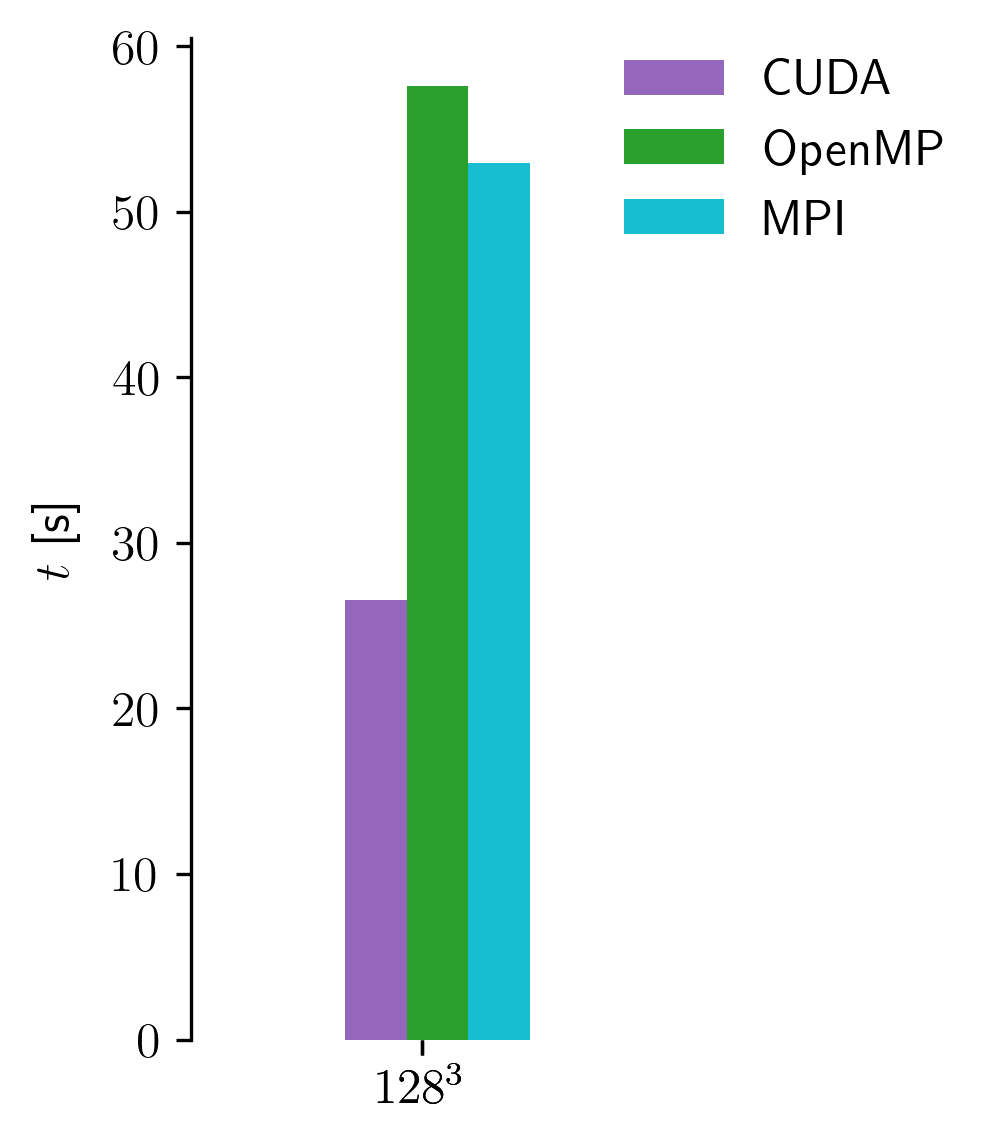
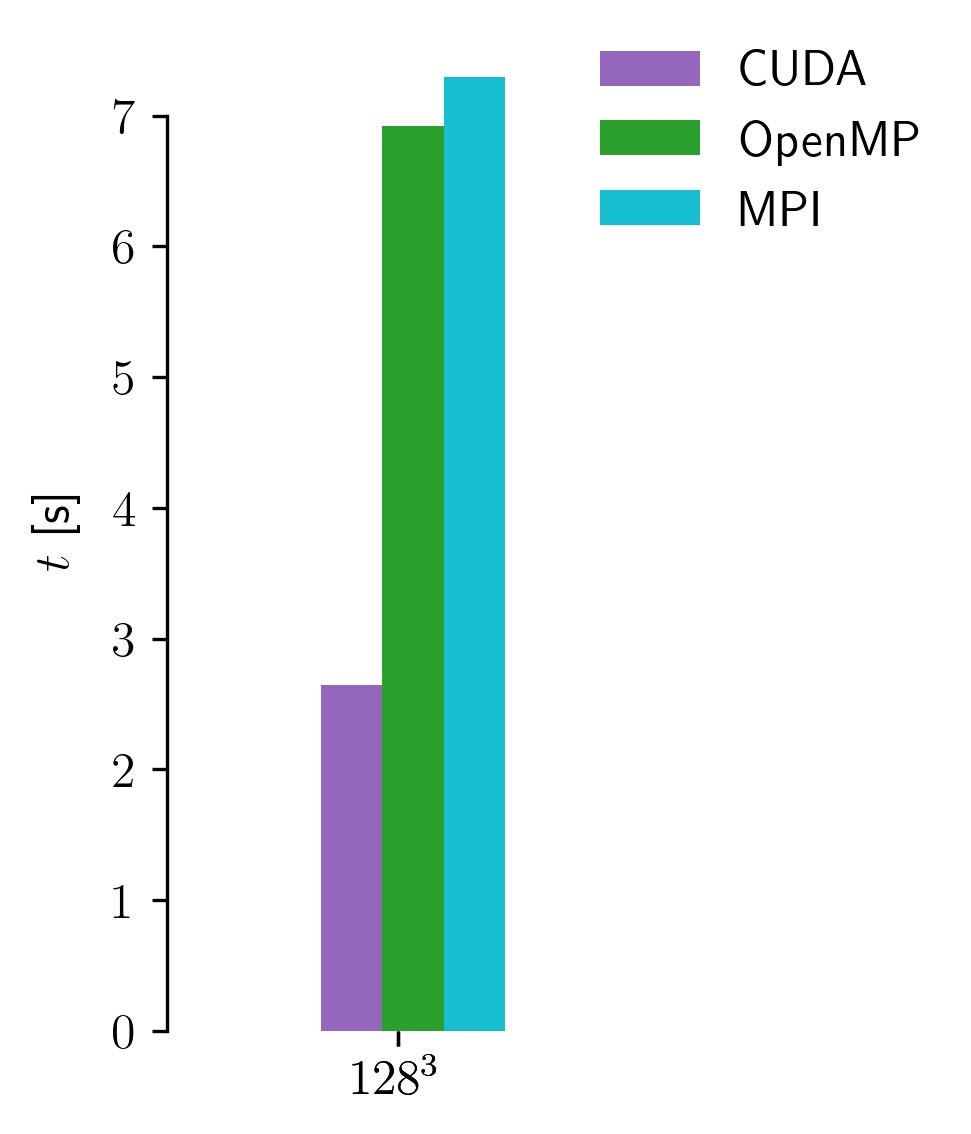
updated benchmarks

diff --git a/slides.md b/slides.md
@@ -88,11 +88,7 @@ Stencil of update for **one** lattice site is $s = 1$
 </v-click>
 
 <v-click at=3>
-<br>&nbsp;&nbsp;  <mdi-arrow-right/> Each site can be updated independently.
-</v-click>
-
-<v-click at=4>
-<br>&nbsp;&nbsp;  <mdi-arrow-right/> Only local information needed (neighbours).
+&nbsp;&nbsp;  <mdi-arrow-right/> Only local information needed (neighbours).
 </v-click>
 
 </div>
@@ -105,7 +101,7 @@ Stencil of update for **one** lattice site is $s = 1$
   height="auto"
 />
 
-<v-click at=5>
+<v-click at=4>
 
 ## We could compute all lattice sites independently!
 
@@ -212,8 +208,8 @@ $$
 
 Stencil of update for **one** lattice site is $s = 1$
 
-<br>&nbsp;&nbsp;  <mdi-arrow-right/> Each site can be updated independently.
-<br>&nbsp;&nbsp;  <mdi-arrow-right/> Only local information needed (neighbours).
+&nbsp;&nbsp;  <mdi-arrow-right/> Only local information needed (neighbours).
+<br><br>&nbsp;&nbsp;  <mdi-arrow-right/> Each site can be updated independently.
 </div>
 
 <div style="margin-top:23mm">
@@ -1311,7 +1307,7 @@ int main(int argc, char **argv)
       device::iteration::fence();
       measurer.measure("timestepping", [&]() {
         pi = pi + dt * LatticeLaplacian<NDim, decltype(phi)>(phi); // kick
-        phi = phi + dt * pi;                             // drift
+        phi = phi + dt * pi;                                       // drift
         device::iteration::fence();
       });
     }
@@ -1405,9 +1401,13 @@ zoom: 0.8
   width="auto"
 />
 </div>
+<div style="margin-left:20mm; margin-top:-6mm; font-size:0.6em">CPU on MPI, GPU on CUDA</div>
 </v-click>
-
 <div style="margin-left:10mm;">
+
+</div>
+
+<div style="margin-left:10mm;margin-top:5mm">
 <v-click at=2>
 
 -  Fourier transformation: `cuFFT`
@@ -1432,11 +1432,11 @@ zoom: 0.8
 
 ---
 layout: default
-transition: slide-left
+transition: fade
 ---
 
-# Benchmarking $\phi^4$-theory 
-with the `lphi4` model in CosmoLattice
+# Benchmarking $\phi^4$-theory
+<span style="position:relative;top:-12px;">with the `lphi4` model in CosmoLattice</span>
 
 <div id="overlay" style="margin-left:25mm;margin-top:12mm" v-click>
 preliminary
@@ -1462,19 +1462,19 @@ preliminary
 /></div>
 </div>
 
-<div class="grid grid-cols-[25%_45%_30%] gap-4" style="margin-top:-20mm;">
+<div class="grid grid-cols-[25%_43.2%_30%] gap-4" style="margin-top:-20mm;">
 
 <div></div>
 
-<div v-click>
-```
+<div v-click at=4>
+```ts
 ┌───────┬─────────────┬─────────────┬─────────────┬──────────────────┐
 │       │        CUDA │      OpenMP │         MPI │ speedup CUDA/MPI │
 │       │ runtime [s] │ runtime [s] │ runtime [s] │           factor │
 ├───────┼─────────────┼─────────────┼─────────────┼──────────────────┤
-│ N=128 │          27 │          58 │          53 │                2 │
-│ N=256 │         216 │         951 │         920 │                4 │
-│ N=512 │        2260 │       14147 │       15471 │                7 │
+│ N=128 │         2.6 │         6.9 │         7.3 │              2.8 │
+│ N=256 │        19.5 │       164.9 │       140.4 │              7.2 │
+│ N=512 │       283.1 │      1820.6 │      2224.7 │              7.9 │
 └───────┴─────────────┴─────────────┴─────────────┴──────────────────┘
 ```
 </div>
@@ -1483,7 +1483,7 @@ preliminary
 <br>
 <br>
 <br>
-<v-click at=4>
+<v-click at=5>
 <br>
 Slightly unfair comparison <br>
 (my CPU is "stronger")
@@ -1491,6 +1491,62 @@ Slightly unfair comparison <br>
 </div>
 
 </div>
+
+<style>
+.slidev-code {
+  font-size: 0.5em !important;
+  line-height: 0.4em !important;
+  padding: 0.3em !important;
+}
+#overlay {
+position: fixed; /* Sit on top of the page content */
+  z-index: 2; /* Specify a stack order in case you're using a different order for other elements */
+  cursor: pointer; /* Add a pointer on hover */
+
+  font-size: 100px;
+  text-transform: uppercase;
+  font-family: "Oswald", sans-serif;
+  transform: rotate(15deg)
+             skew(-15deg);
+  color: rgba(1,1,1,0.2)
+}
+</style>
+
+---
+layout: default
+transition: slide-left
+---
+
+# Benchmarking $\phi^4$-theory 
+<span style="position:relative;top:-12px;">with the `lphi4` model in CosmoLattice</span>
+
+<div id="overlay" style="margin-left:25mm;margin-top:12mm">
+preliminary
+</div> 
+
+<div class="grid grid-cols-[50%_50%] gap-4" style="margin-top:-6mm">
+<div v-click style="margin-left:15mm"><ImageFigure
+  src="/av_512.png"
+  height="92%"
+  width="auto"
+/></div>
+<div v-click style="margin-left:15mm"><ImageFigure
+  src="/V_512.png"
+  height="92%"
+  width="auto"
+/></div>
+</div>
+
+<div style="position:absolute; top:120px; left:435px">
+
+$N=512$
+</div>
+
+<div v-click style="margin-top:-18mm;margin-left:55mm"><ImageFigure
+  src="/dE_512.png"
+  height="75%"
+  width="auto"
+/></div>
 
 <style>
 .slidev-code {
